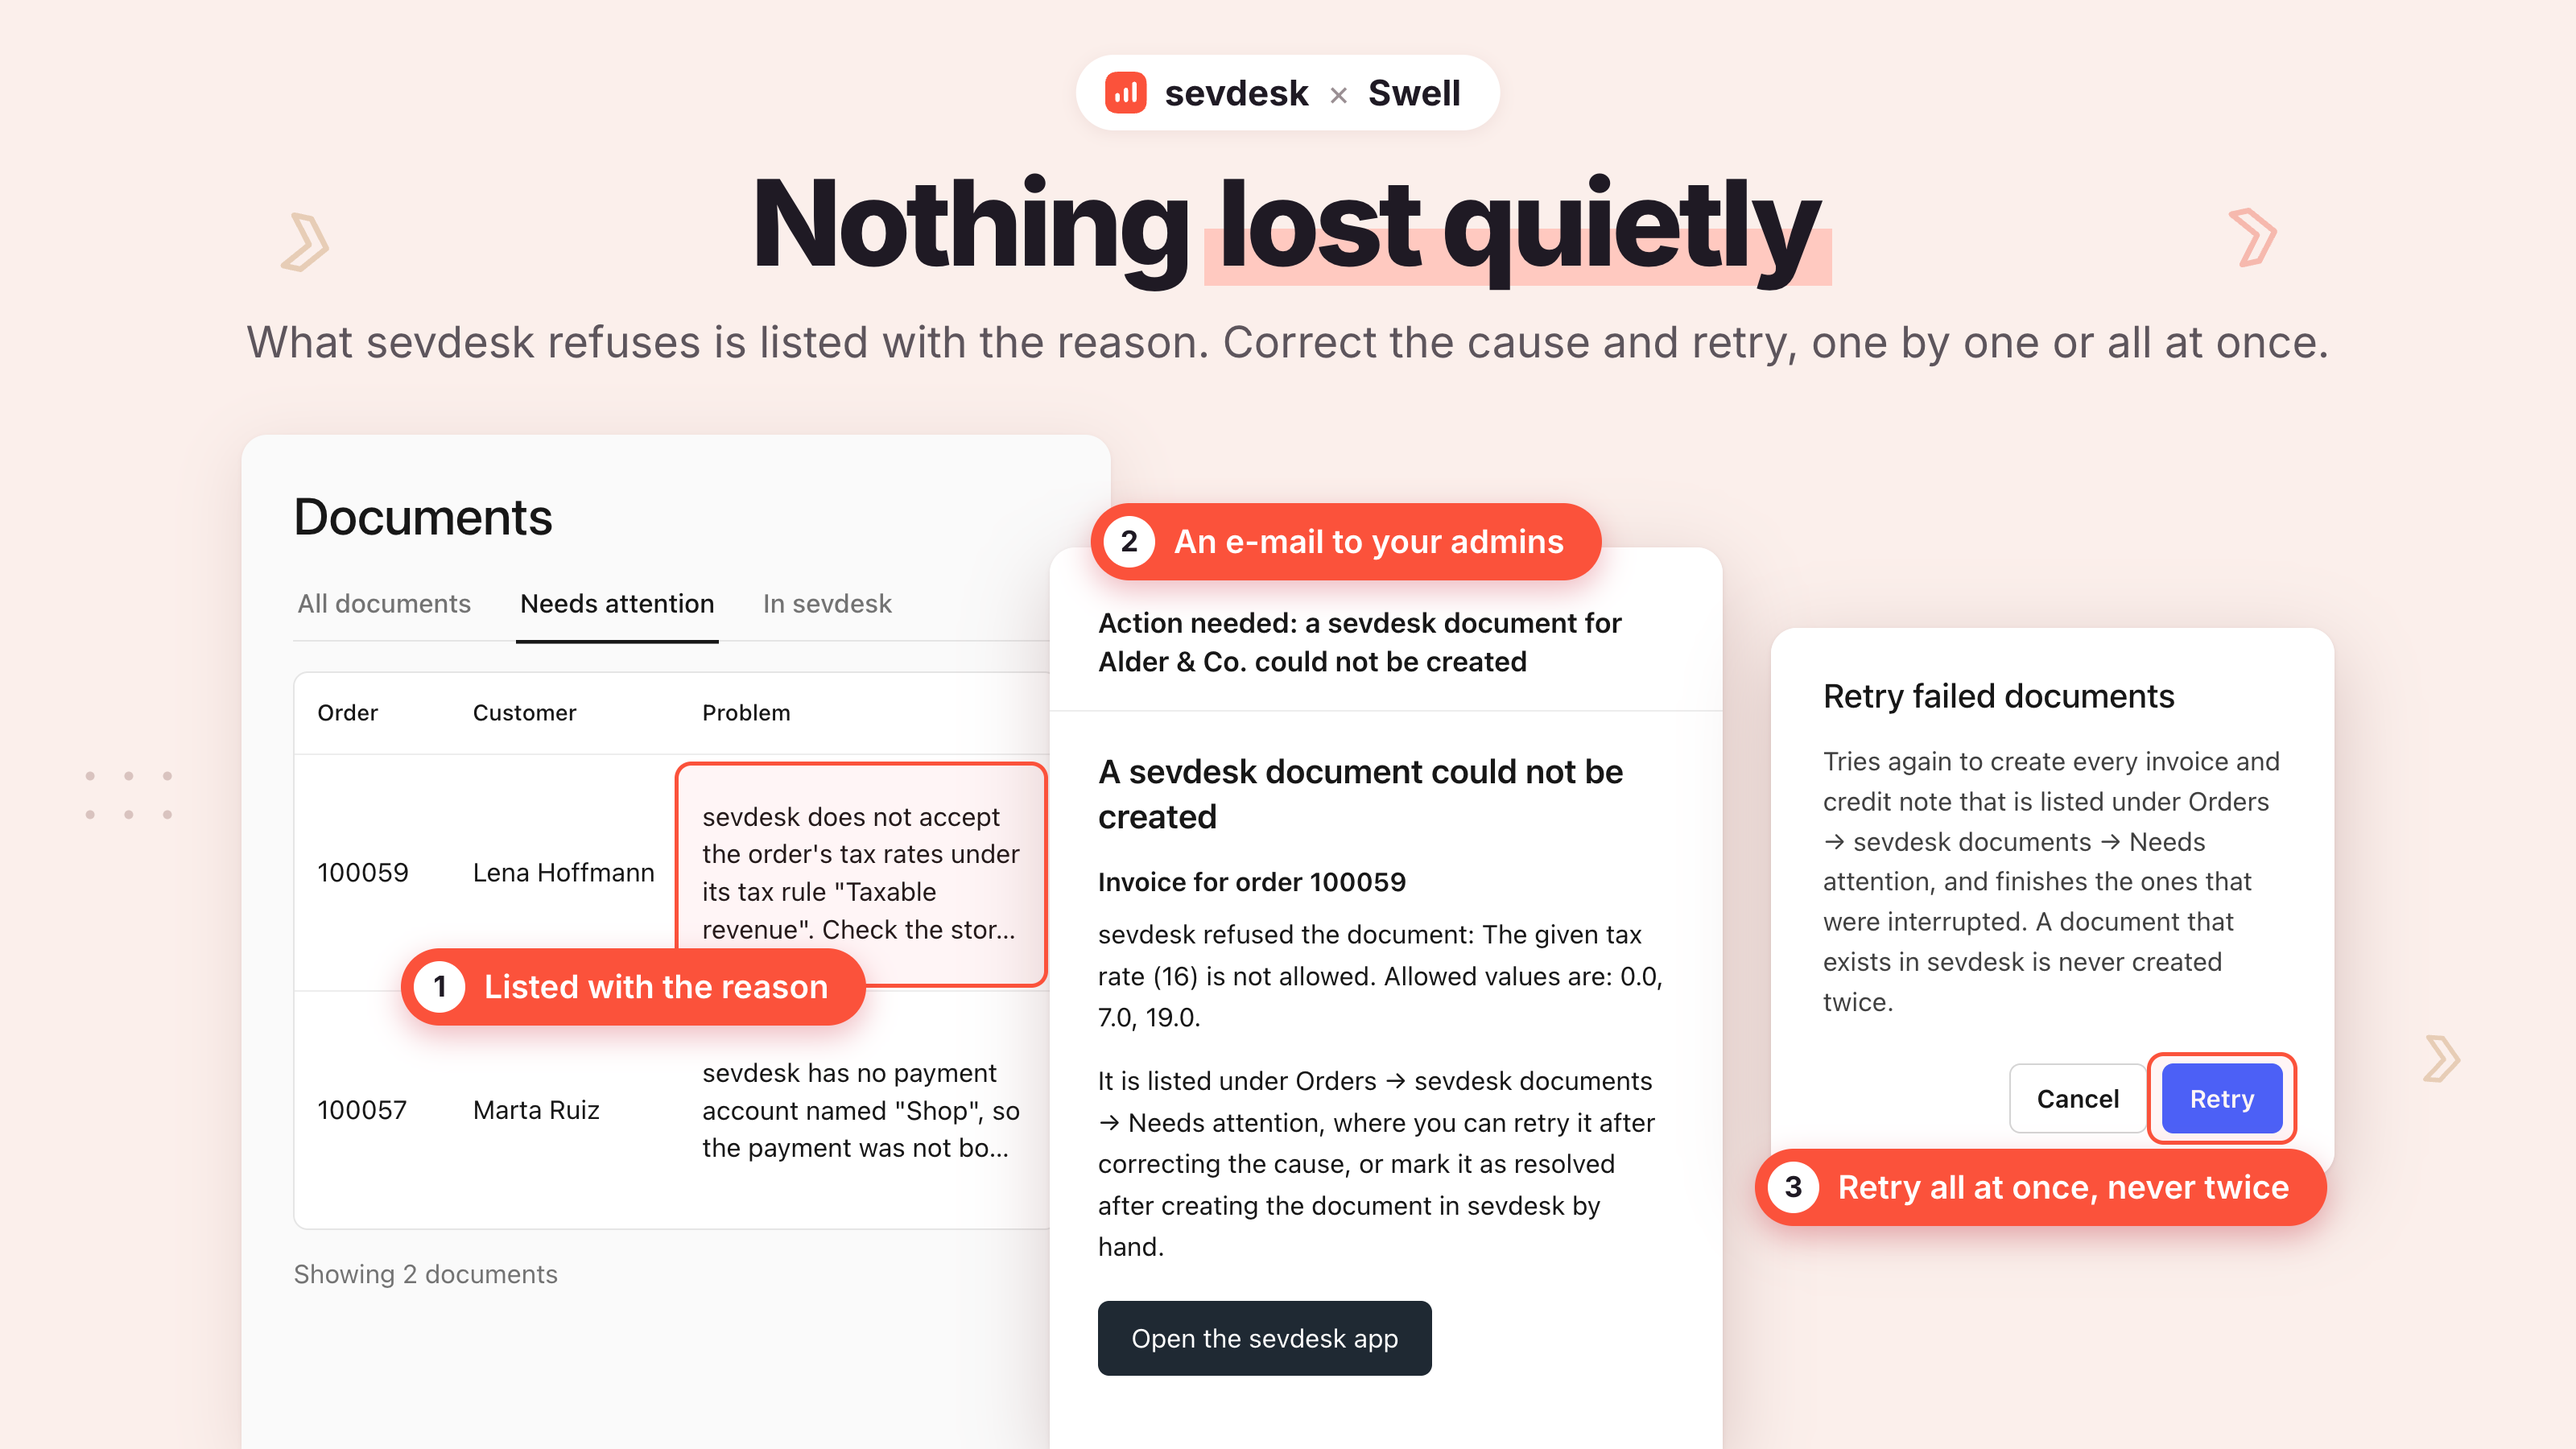
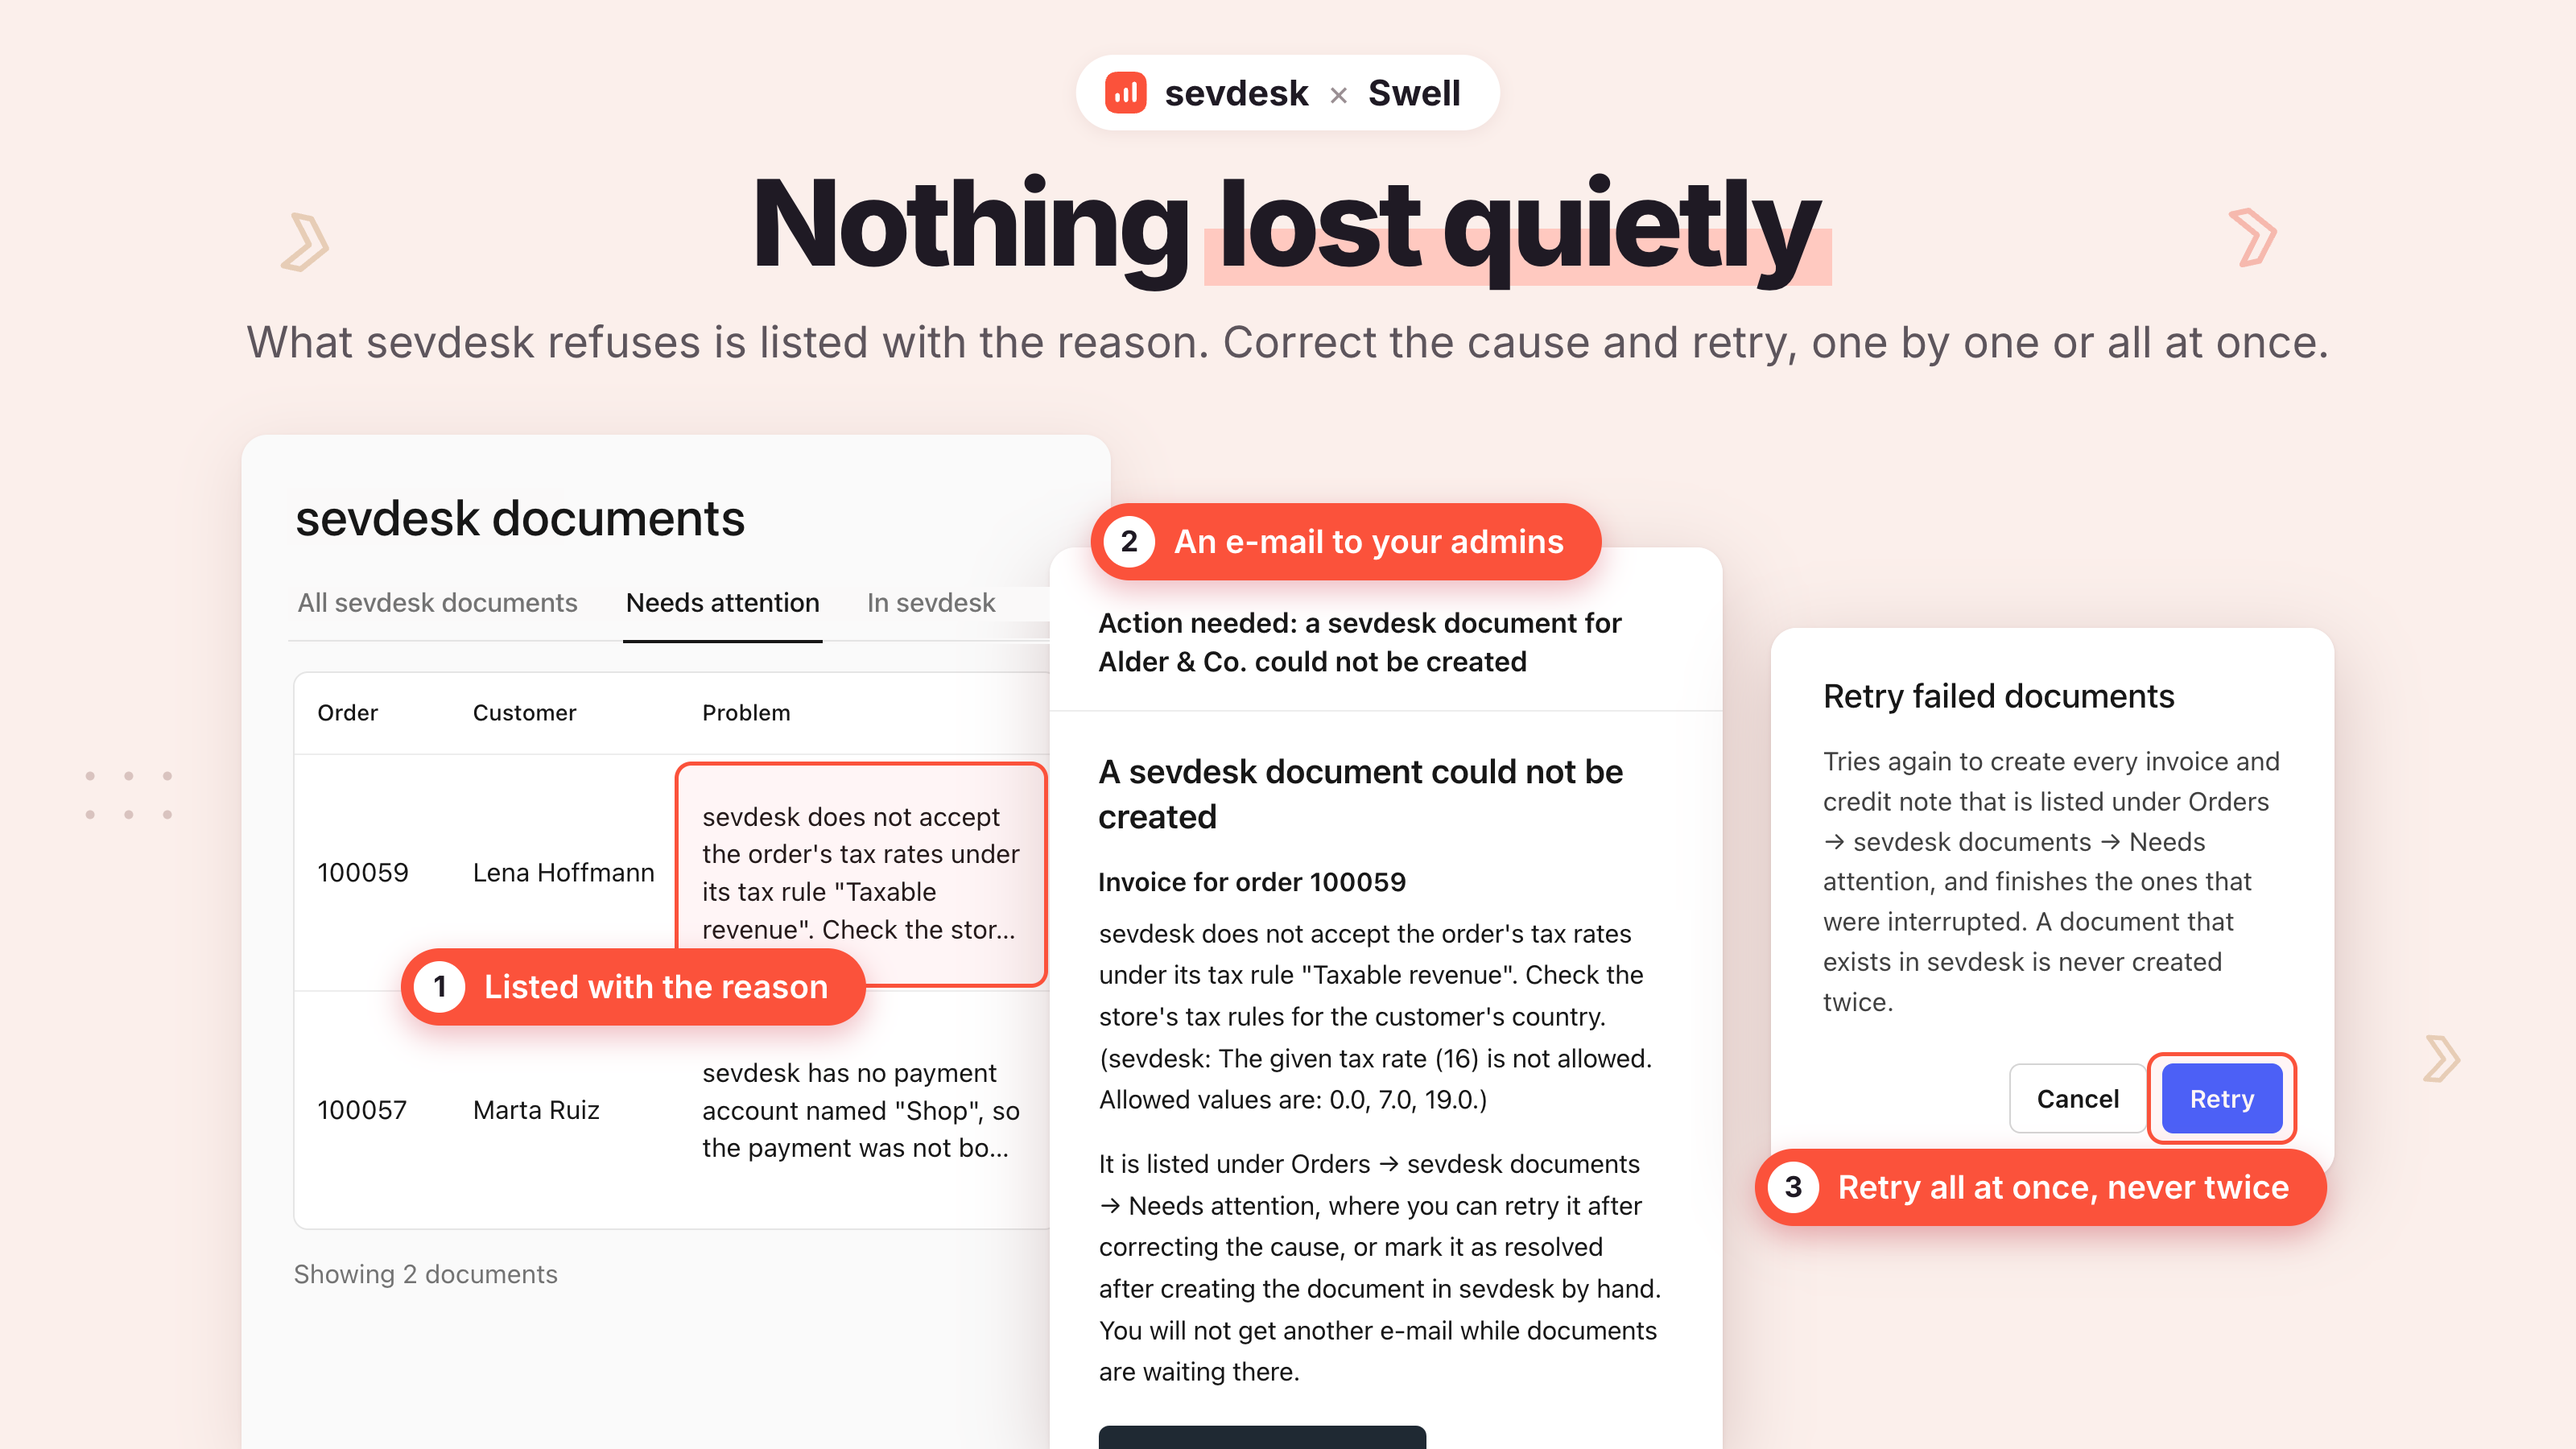
Listing update: app guide link, documents view title and alert e-mail in images

Changed region(s): [[0.4062, 0.6222, 0.6562, 1.0], [0.125, 0.4044, 0.375, 0.4356], [0.0938, 0.3422, 0.2812, 0.3733]]

diff --git a/DESCRIPTION.md b/DESCRIPTION.md
@@ -1,13 +1,12 @@
-Create invoices and credit notes in sevdesk for your Swell orders, and book their payments. When an order is paid, its invoice is created in sevdesk with your number range and layout and arrives as paid, and when a payment is refunded, a credit note for that invoice arrives as paid out.
+Create invoices and credit notes in sevdesk for your Swell orders, and book their payments. When an order is paid, its invoice is created in sevdesk with your number range and layout, and its payments are booked on the account you name, so it arrives as paid. When a payment is refunded, a credit note for that invoice arrives as paid out.
 
-Connect sevdesk with your API token and choose drafts to review in sevdesk or finalized documents. Each document is listed on its order in Swell with its number, its status in sevdesk, the PDF and a link into sevdesk.
+Connect sevdesk with your API token and choose drafts to review in sevdesk or finalized documents. Each document is listed on its order in Swell, and its page shows the number, the status in sevdesk, the PDF and a link into sevdesk.
 
-- **Invoices to the cent.** Each item, shipping and discounts are on the invoice, and its total is what the customer paid. A paid order's invoice says that it's already paid, and how.
+- **Invoices and credit notes to the cent.** Each item, shipping and discounts are on the invoice, and its total is what the customer paid. A paid order's invoice says that it's already paid, and how. A full refund repeats the invoice's positions, and a partial refund is split over the invoice's tax rates.
 - **Payments booked.** Each payment of an order is booked on the sevdesk clearing account you name, with its own amount and date, and each refund as a payout. Bank transfers, or a PayPal account connected to sevdesk, can be left for sevdesk to match.
 - **The right tax rule.** German VAT on net or gross invoices, the destination country's VAT for EU consumers under the One-Stop-Shop, tax-free intra-community supplies and reverse charge for EU businesses with a VAT ID, tax-free exports, and invoices without VAT for small businesses. The app uses the tax your store charged.
-- **Credit notes for refunds.** A full refund repeats the invoice's positions, and a partial refund is split over the invoice's tax rates.
 - **Drafts or finalized documents.** Start with drafts and finalize them in sevdesk or in Swell, or create finalized documents with their number, payment booking and PDF at once. Finalized documents can be e-mailed to your customers, in German or English, with a link to the PDF.
-- **Never created twice.** Each order gets one invoice and each refund one credit note, also when a request is repeated or its answer is lost. Documents sevdesk refuses are listed under Needs attention with the reason, your administrators get an e-mail, and you can retry them one by one or all at once.
+- **Never created twice.** Each order gets one invoice and each refund one credit note, also when a request is repeated or its answer is lost. Documents that can't be created are listed under Needs attention with the reason, your administrators get an e-mail, and you can retry them one by one or all at once.
 - **Invoices on demand.** Create the invoice for an order from its page, or for selected orders at once, including unpaid orders and orders from before you installed the app. When such an order is paid later, the payment is booked on its invoice.
 
-Setup takes a few minutes. In sevdesk, complete your company and tax settings, add a clearing account for shop payments under Bank → Verrechnungskonto, and copy your API token under Einstellungen → Benutzer. In Swell, paste the token in the app settings, run Test connection, enter the name of the clearing account, choose drafts or finalized documents, and turn on Create documents automatically. The app needs sevdesk's current bookkeeping system (sevdesk-Update 2.0). Orders in other currencies than EUR are skipped.
+Setup takes a few minutes. In sevdesk, complete your company and tax settings, add a clearing account for shop payments under Bank > Verrechnungskonto, and copy your API token under Einstellungen > Benutzer. In Swell, paste the token in the app settings, run Test connection, enter the name of the clearing account, choose drafts or finalized documents, and turn on Create documents automatically. The app needs sevdesk's current bookkeeping system, sevdesk-Update 2.0. Orders in currencies other than EUR are skipped.
